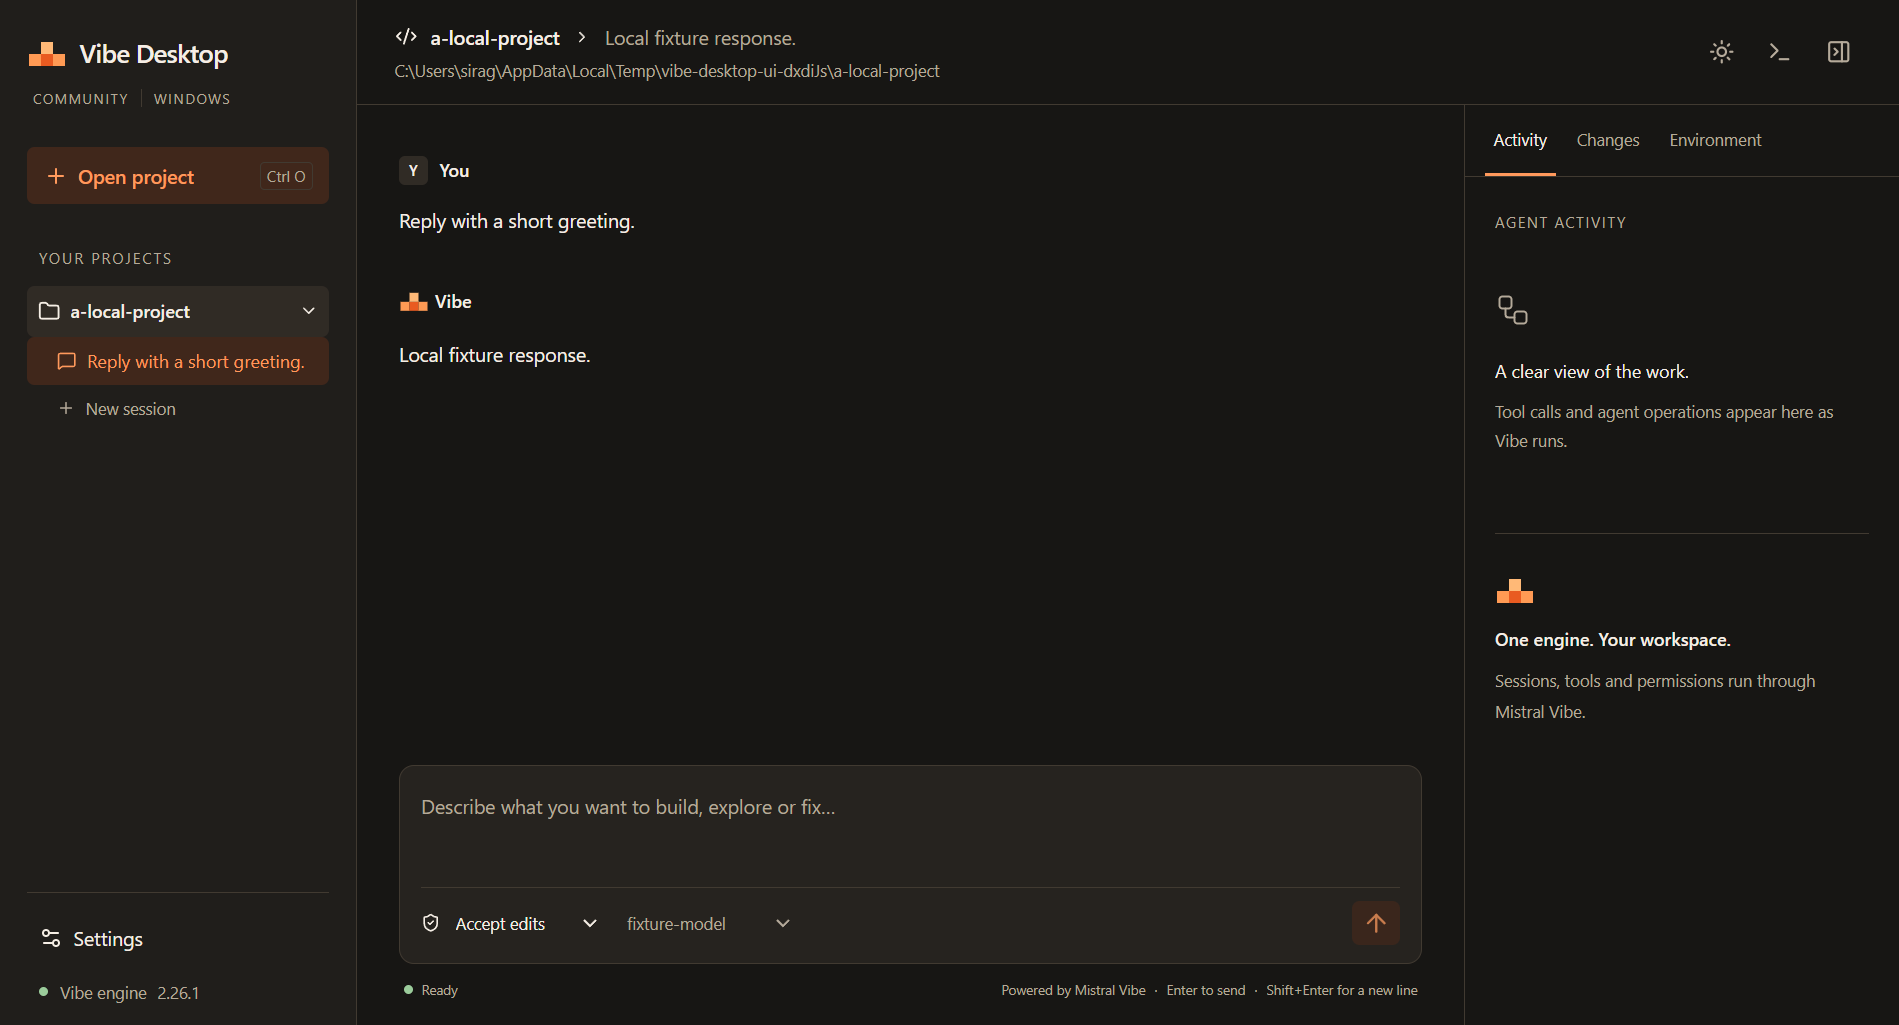
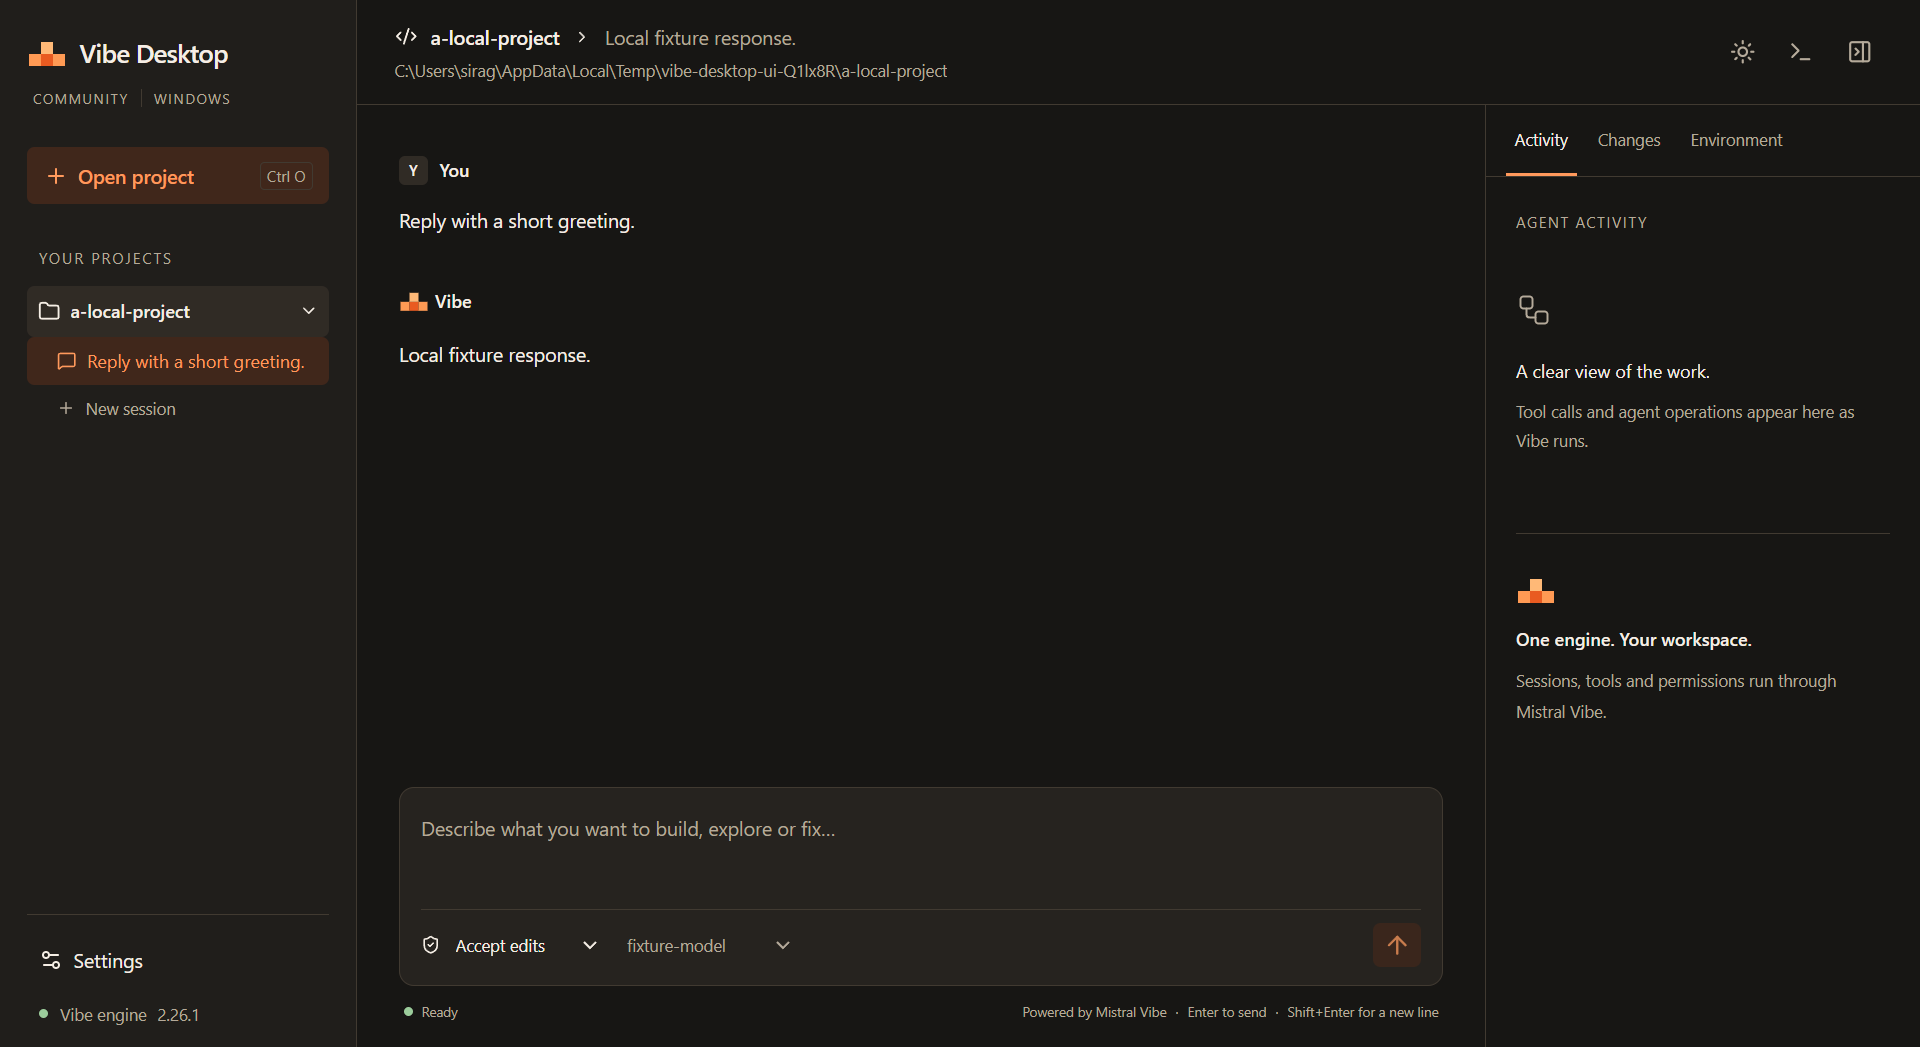
Stabilize Windows shell startup during Git activity

diff --git a/tests/backend.test.js b/tests/backend.test.js
@@ -193,6 +193,58 @@ test("connect serializes concurrent handshakes and creates a new user-data direc
   );
 });
 
+test("Windows backend startup pins current-directory executable search off without mutating the parent environment", async (t) => {
+  const parentEnv = {
+    VIBE_TEST_KEEP_CASE: "preserved",
+    NoDefaultCurrentDirectoryInExePath: "0",
+    NODEFAULTCURRENTDIRECTORYINEXEPATH: "also-zero",
+  };
+  const originalParentEnv = { ...parentEnv };
+  const spawnedEnvironments = [];
+  const { backend } = await createBackend(t, {
+    platform: "win32",
+    env: parentEnv,
+    spawnProcess: (_command, _args, options) => {
+      spawnedEnvironments.push(options.env);
+      return new FakeAppServer();
+    },
+  });
+
+  await backend.connect();
+
+  assert.equal(spawnedEnvironments.length, 1);
+  const childEnv = spawnedEnvironments[0];
+  assert.equal(childEnv.VIBE_TEST_KEEP_CASE, "preserved");
+  assert.deepEqual(
+    Object.entries(childEnv).filter(
+      ([key]) => key.toUpperCase() === "NODEFAULTCURRENTDIRECTORYINEXEPATH",
+    ),
+    [["NODEFAULTCURRENTDIRECTORYINEXEPATH", "1"]],
+  );
+  assert.deepEqual(parentEnv, originalParentEnv);
+});
+
+test("non-Windows backend startup leaves the supplied executable-search environment alone", async (t) => {
+  const parentEnv = {
+    NoDefaultCurrentDirectoryInExePath: "0",
+    VIBE_TEST_KEEP_CASE: "preserved",
+  };
+  const spawnedEnvironments = [];
+  const { backend } = await createBackend(t, {
+    platform: "linux",
+    env: parentEnv,
+    spawnProcess: (_command, _args, options) => {
+      spawnedEnvironments.push(options.env);
+      return new FakeAppServer();
+    },
+  });
+
+  await backend.connect();
+
+  assert.equal(spawnedEnvironments.length, 1);
+  assert.deepEqual(spawnedEnvironments[0], parentEnv);
+});
+
 test("approval, denial, and user-question callback outputs use the upstream callback/result contract", async (t) => {
   const servers = [];
   const { backend, selectedProject } = await createBackend(t, {

diff --git a/src/main/backend.js b/src/main/backend.js
@@ -180,6 +180,22 @@ function isInside(root, candidate) {
   );
 }
 
+function serverProcessEnvironment(env, platform) {
+  const childEnv = { ...env };
+  if (platform === "win32") {
+    // Keep GitPython's temporary patch from removing a key while Vibe copies
+    // os.environ, and exclude the current directory from executable lookup.
+    const noCwdSearch = "NODEFAULTCURRENTDIRECTORYINEXEPATH";
+    // GitPython patches this key in os.environ while Vibe copies the mapping
+    // to launch a shell; keeping it present avoids the concurrent delete race.
+    for (const key of Object.keys(childEnv)) {
+      if (key.toUpperCase() === noCwdSearch) delete childEnv[key];
+    }
+    childEnv[noCwdSearch] = "1";
+  }
+  return childEnv;
+}
+
 function getField(object, ...names) {
   for (const name of names) {
     if (Object.hasOwn(object ?? {}, name)) return object[name];
@@ -462,7 +478,7 @@ export class VibeBackend extends EventEmitter {
     });
     const child = this.spawnProcess(command, [], {
       cwd: userData,
-      env: { ...this.env },
+      env: serverProcessEnvironment(this.env, this.platform),
       shell: false,
       windowsHide: true,
       stdio: ["pipe", "pipe", "pipe"],

diff --git a/docs/validation.md b/docs/validation.md
@@ -18,10 +18,13 @@ not a production backend or a simulated agent.
 | PyInstaller         | 6.20.0                                     |
 
 The frozen executable SHA-256 is
[2 lines of base64/hex data omitted]
 Its `build-metadata.json` records the upstream source and hashes of the official
-build entrypoint and hooks. The packaged `licenses/` directory contains the
-runtime inventory and matching license texts.
+build entrypoint and hooks. Each support file is checked against the pinned
+commit's Git blob and its SHA-256 over canonical UTF-8/LF bytes. Local Windows
+checkouts and raw GitHub downloads therefore use the same verified input;
+unexpected encoding and altered contents are rejected. The packaged `licenses/`
+directory contains the runtime inventory and matching license texts.
 The complete Python environment is pinned in `requirements-backend.txt`; its
 hash is recorded in the build metadata. The build adds the built-in plugin
 manifest and skills that the upstream 2.26.1 PyInstaller spec omits. The probe
@@ -31,12 +34,12 @@ are missing.
 ## Checks
 
 `npm run build` passed TypeScript and production bundling. `npm test` passed all
-22 transport, renderer and backend tests, with no skipped tests. The real
-Electron integration test passed against both the installed and final frozen
-backend (24.1 seconds for the frozen run). `npm audit`
+24 transport, renderer and backend tests, with no skipped tests. The real
+Electron integration test passed against both the installed and frozen
+backend (26.4 seconds for the latest frozen run). `npm audit`
 reported zero vulnerabilities in the locked npm dependency tree.
 The same desktop workflow also passed against `out/win-unpacked/Vibe Desktop.exe`
-and its bundled backend in 23.9 seconds, using disposable presentation and Vibe
+and its bundled backend in 22.5 seconds, using disposable presentation and Vibe
 profiles. This verifies the packaged executable as well as source launch.
 
 The protocol probe ran both the installed wheel and the frozen executable. It
@@ -63,6 +66,13 @@ dispatch them. The Changes panel presents their availability explicitly.
 Windows fixture paths are canonicalized to support the runner's `RUNNER~1`
 temporary-directory alias. A junction regression check verifies that the
 picker authorizes the canonical target while raw aliases remain rejected.
+Windows startup also pins `NODEFAULTCURRENTDIRECTORYINEXEPATH=1` in the backend
+child's environment. This prevents a GitPython environment mutation from racing
+with Vibe's shell environment snapshot; regression checks cover case-insensitive
+key handling and preservation of the parent environment.
+The original exception was reproduced with concurrent GitPython patches and
+Vibe snapshots. The same stress check completed without errors with the flag
+held for the child process's lifetime.
 
 The renderer tests cover incremental patches, duplicate and missing events,
 partial snapshots, context handoff, multi-select questions and custom answers.
@@ -83,6 +93,8 @@ $env:VIBE_TEST_SERVER = "$PWD/.runtime/backend/vibe-app-server/vibe-app-server.e
 npm run test:ui
 npm audit
 npm run package
+$env:VIBE_TEST_DESKTOP = "$PWD/out/win-unpacked/Vibe Desktop.exe"
+npm run test:ui
 ```
 
 The first Electron launch was blocked by this host's additional Codex process
@@ -112,8 +124,8 @@ The NSIS build is local and unsigned; no release is published by the build
 workflow. CI uploads the installer, its SHA-256, screenshots and backend
 manifests as a build artifact.
 
-Local artifact: `Vibe-Desktop-0.1.0-x64-Setup.exe`, 164,646,714 bytes.
[1 lines of base64/hex data omitted]
+Local artifact: `Vibe-Desktop-0.1.0-x64-Setup.exe`, 164,646,584 bytes.
[1 lines of base64/hex data omitted]
 `Get-AuthenticodeSignature` reports `NotSigned`. The matching checksum is saved
 in `out/SHA256SUMS.txt`; CI generates its own checksum for its artifact.
 

diff --git a/docs/architecture.md b/docs/architecture.md
@@ -96,6 +96,14 @@ sandboxed with context isolation, no Node integration, a restrictive CSP and a
 small validated IPC surface. External navigation uses an explicit HTTPS
 allowlist. Model output is rendered as text and Markdown, without raw HTML.
 
+On Windows, the owned backend starts with
+`NODEFAULTCURRENTDIRECTORYINEXEPATH=1`. This excludes the current directory from
+implicit executable lookup and keeps GitPython's temporary environment patch
+from adding and removing that key while Vibe copies the shell environment.
+[GitPython documents this environment race](https://github.com/gitpython-developers/GitPython/blob/3.1.62/git/cmd.py#L260).
+The launcher changes only the child's environment; it preserves Vibe's shell
+implementation and leaves the parent process unchanged.
+
 Shutdown asks Vibe to stop and flush the attached session before terminating
 owned processes. Recovery never silently resubmits a prompt. Backend approval
 choices appear in the interface as supplied by Vibe. A folder trust decision
